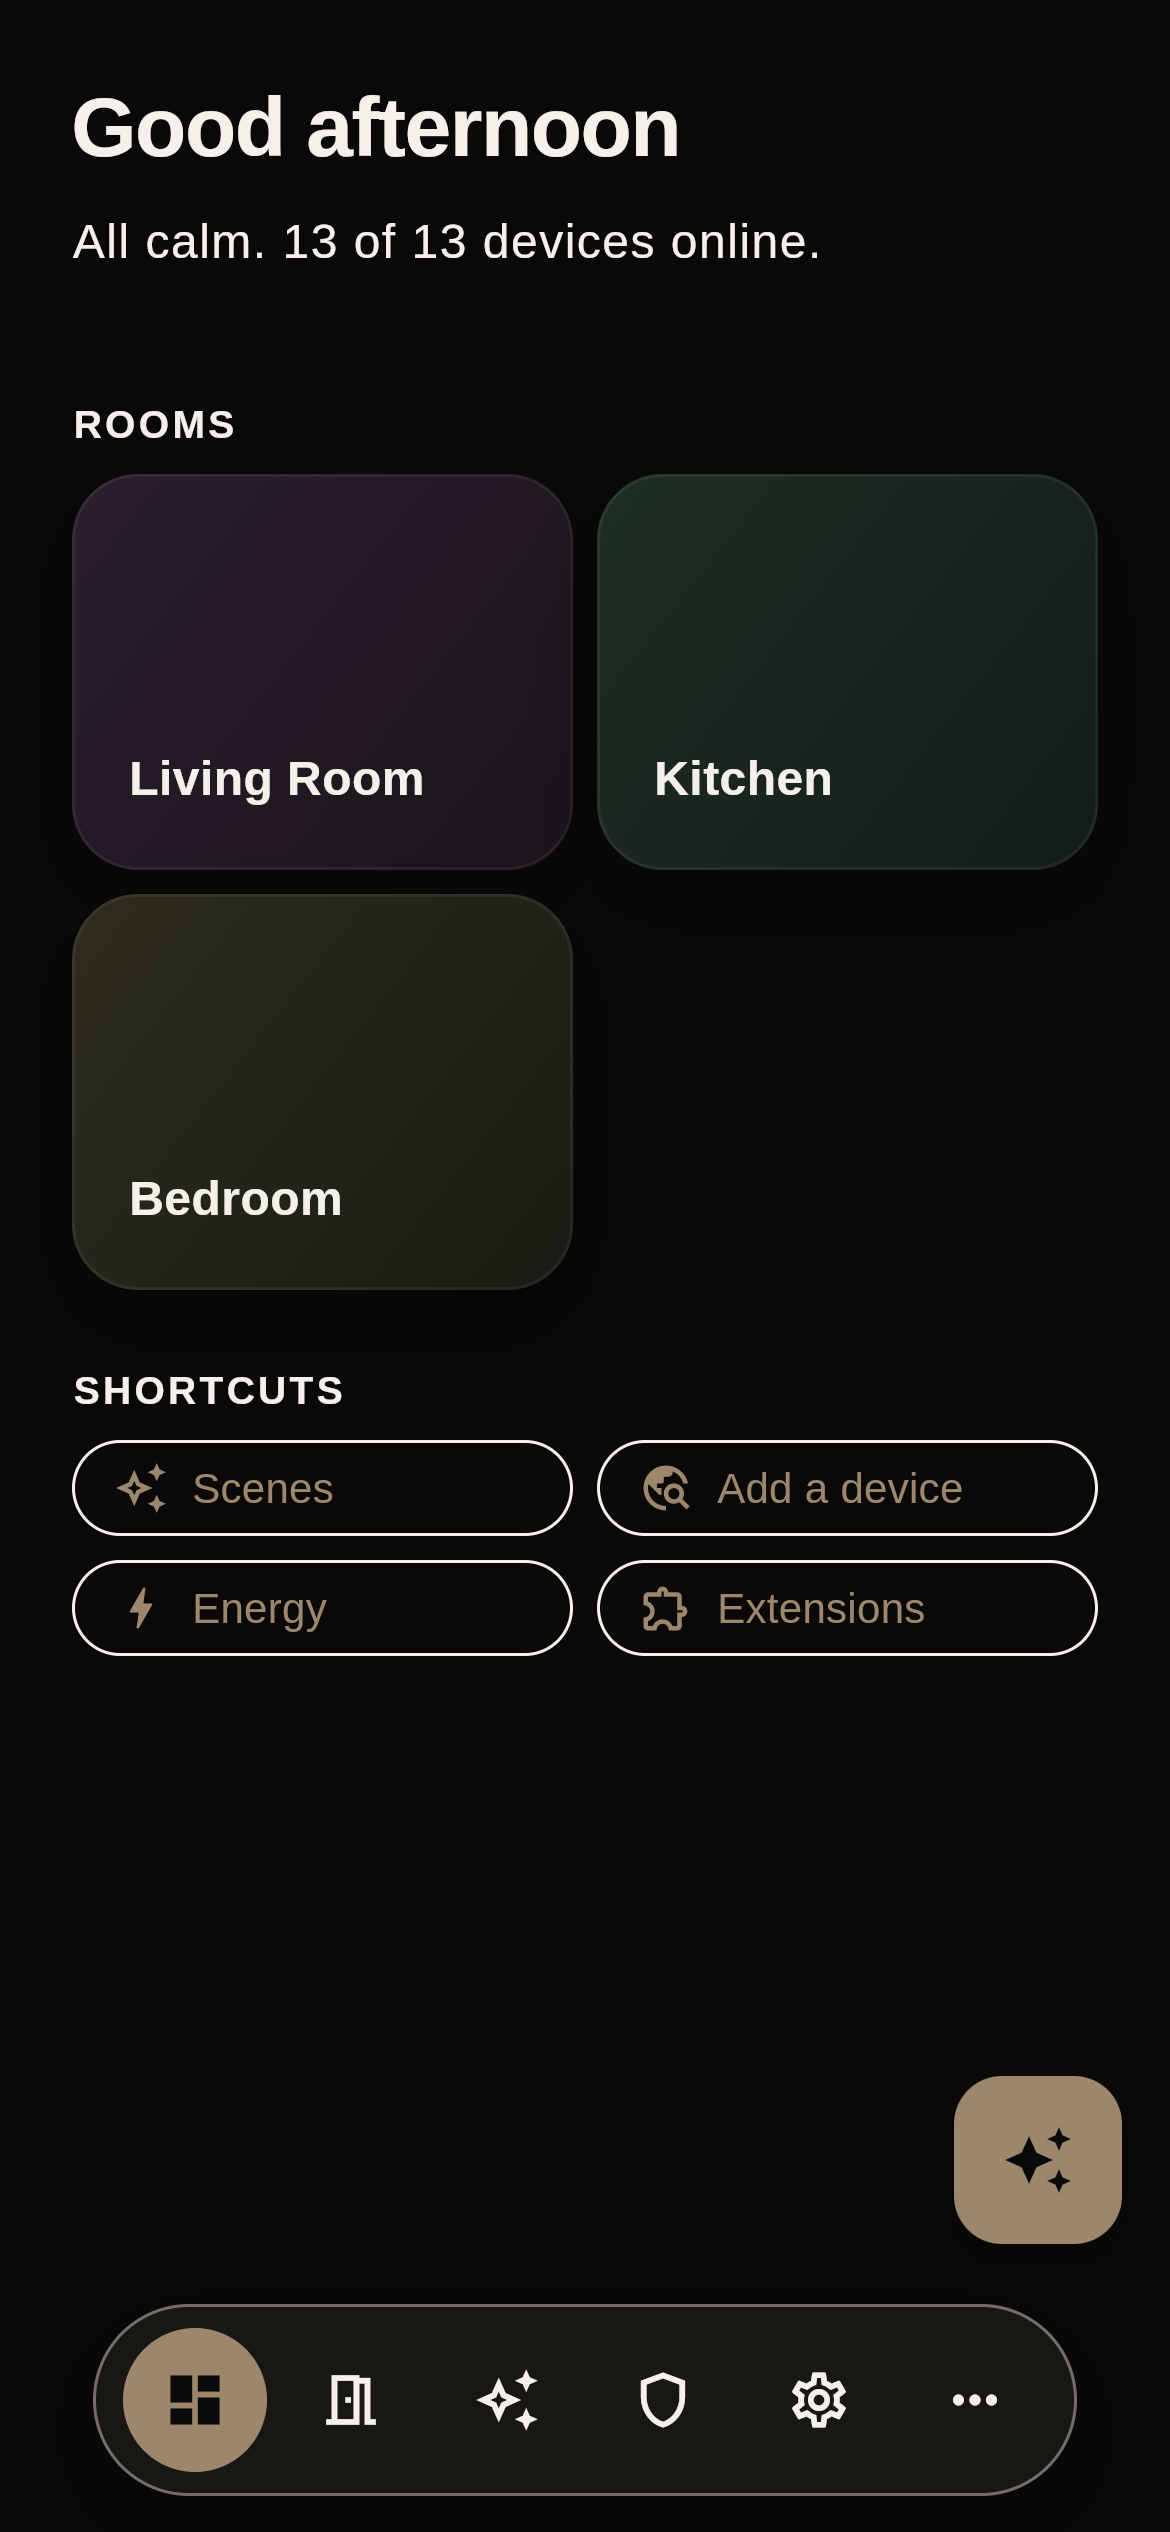
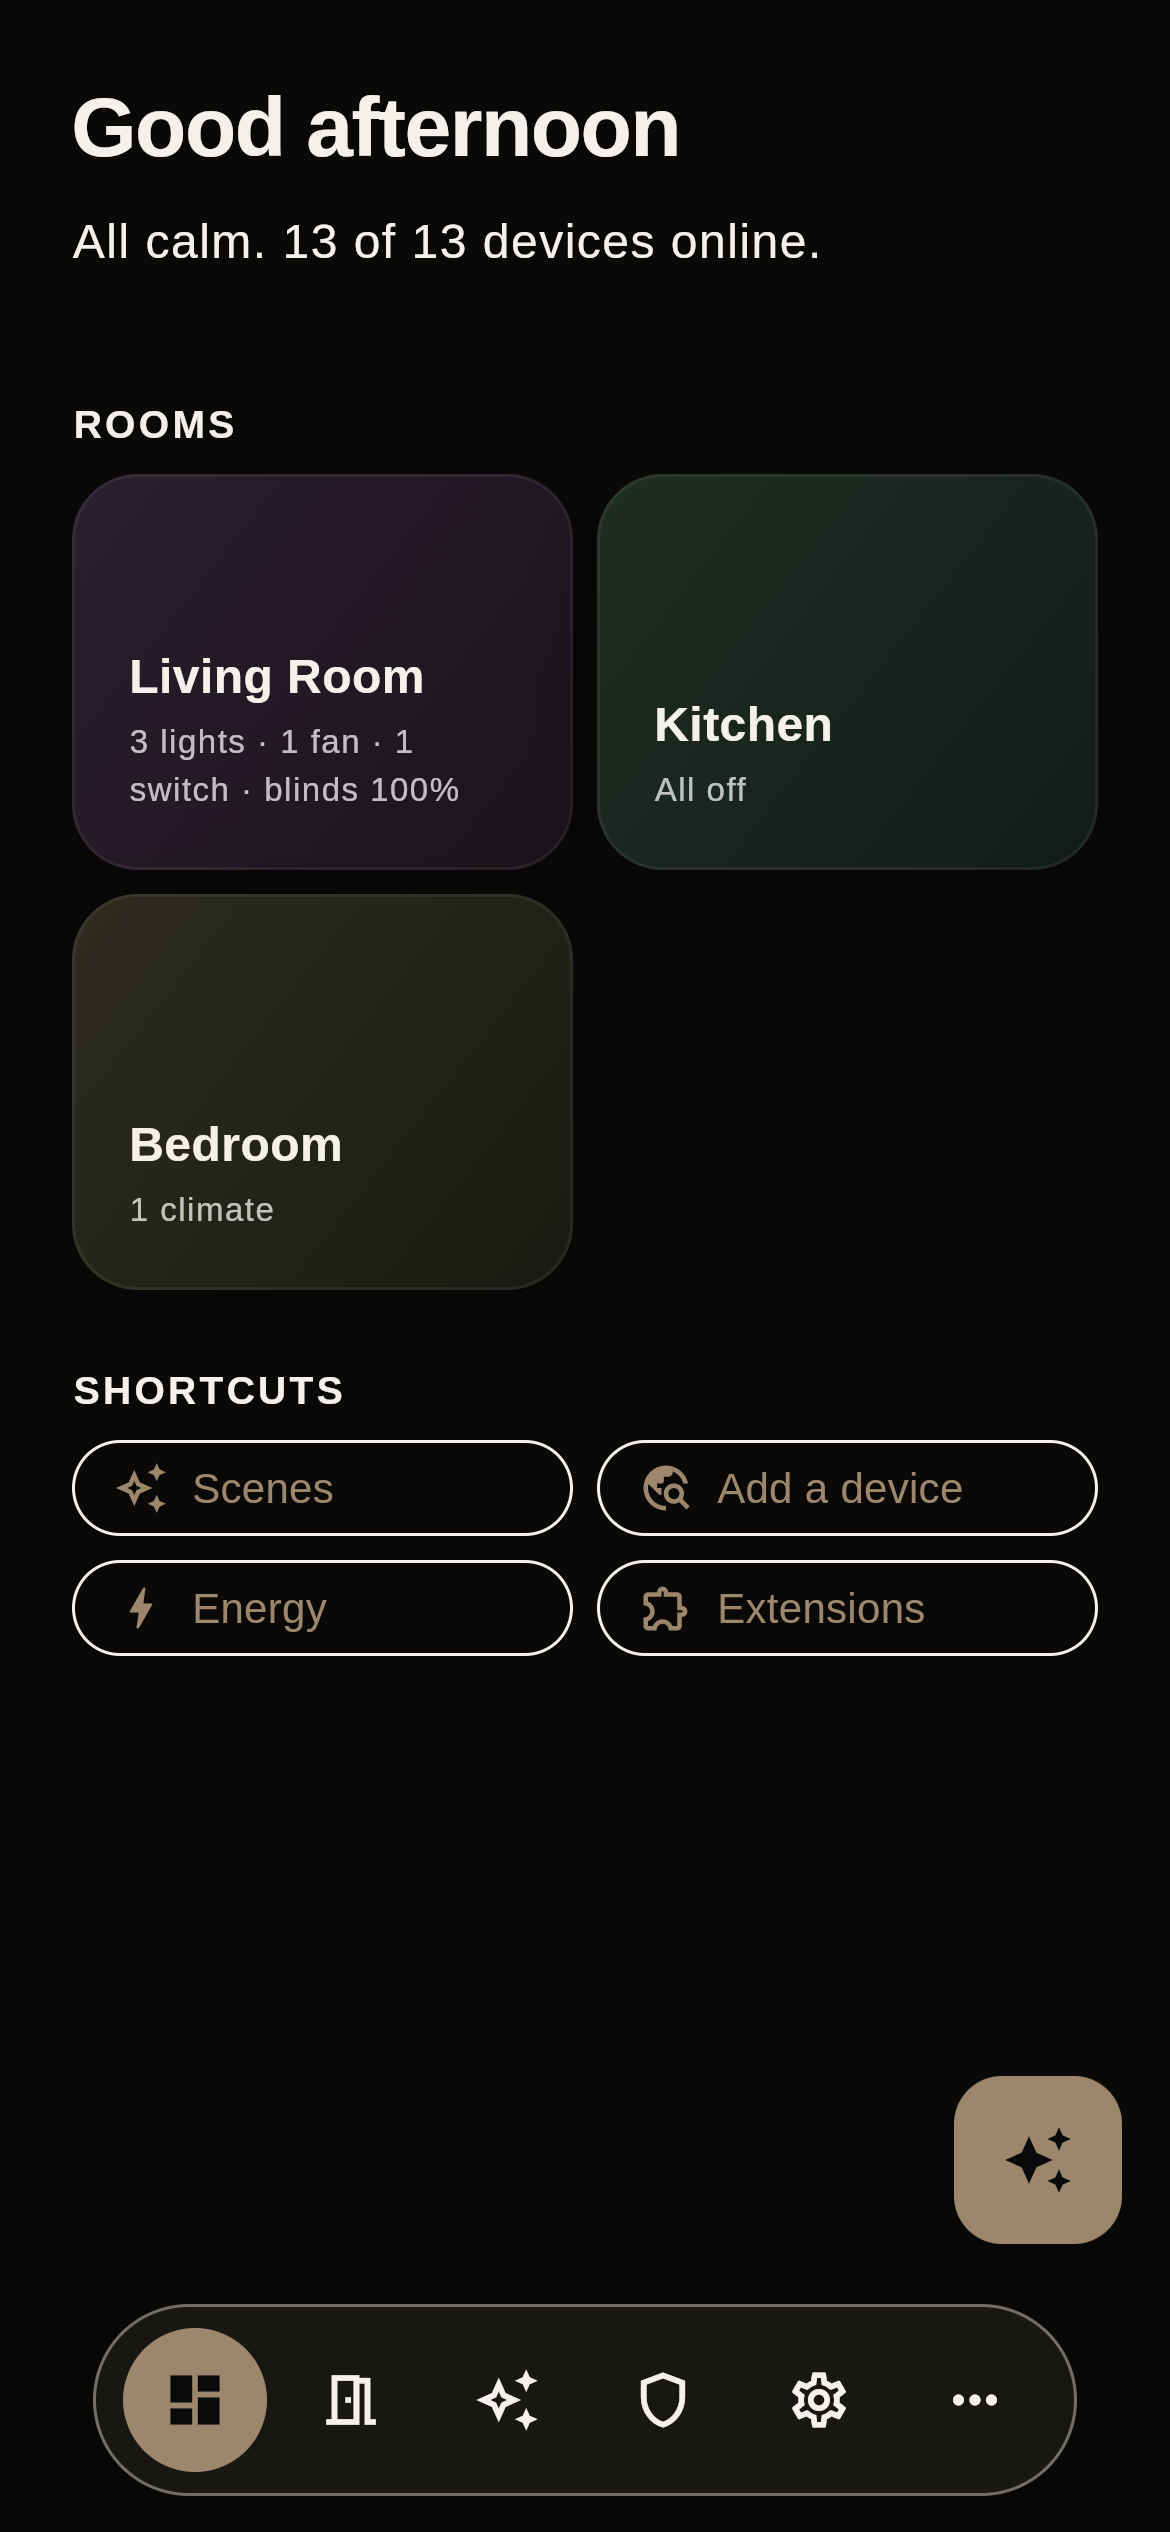
Room summaries: mobile parity (§ Room experience)
Mirrors the web room-card summaries on the Flutter Home tiles: each tile now shows what's live in the
room ("3 lights · 1 fan · 1 switch · blinds 100%" / "All off") beneath the room name, from a shared
Dart summarizeRoom() over allDevicesProvider. Same categories, same copy as web.

Refreshed the affected screenshots (Home web + mobile, Rooms list web).

Verified: flutter analyze clean; flutter test 4/4; visually confirmed on the mobile Home.

Claude-Session: https://claude.ai/code/session_01EBecuTkque4TJM3ndyHGTv

Changed region(s): [[0.0923, 0.2496, 0.3692, 0.3432], [0.0923, 0.4368, 0.2769, 0.4992], [0.5538, 0.2808, 0.7077, 0.312]]

diff --git a/apps/mobile/lib/screens/dashboard.dart b/apps/mobile/lib/screens/dashboard.dart
@@ -4,6 +4,7 @@ import 'package:flutter_riverpod/flutter_riverpod.dart';
 import 'package:supreme_sdk/supreme_sdk.dart';
 
 import '../providers.dart';
+import '../roomsummary.dart';
 import '../usage.dart';
 import '../weather.dart';
 import 'automations_screen.dart';
@@ -86,6 +87,7 @@ class DashboardScreen extends ConsumerWidget {
     final usage = ref.read(usageProvider.notifier);
     final allRooms = ref.watch(homeProvider).valueOrNull?.rooms ?? const <Room>[];
     final rooms = [...allRooms]..sort((a, b) => usage.count('room', b.id).compareTo(usage.count('room', a.id)));
+    final allDevices = ref.watch(allDevicesProvider).valueOrNull ?? const <Device>[];
 
     // Plain-language things that actually need a decision — nothing when all is well.
     final attention = <({String textLabel, bool warn, Widget target})>[];
@@ -162,6 +164,7 @@ class DashboardScreen extends ConsumerWidget {
                       width: w,
                       child: _RoomTile(
                         name: r.name,
+                        summary: summarizeRoom(allDevices.where((d) => d.roomId == r.id).toList()),
                         onTap: () { usage.record('room', r.id); _push(context, Scaffold(appBar: AppBar(title: Text(r.name)), body: RoomView(roomId: r.id, roomName: r.name, areaType: r.areaType, heroImageUrl: r.heroImageUrl))); },
                       ),
                     ),
@@ -365,8 +368,9 @@ LinearGradient _roomTint(String name) {
 
 /// Rooms are the hero: a softly-lit tile with an ambient shadow and a bottom-anchored name.
 class _RoomTile extends StatelessWidget {
-  const _RoomTile({required this.name, required this.onTap});
+  const _RoomTile({required this.name, required this.onTap, this.summary = ''});
   final String name;
+  final String summary;
   final VoidCallback onTap;
 
   @override
@@ -377,14 +381,23 @@ class _RoomTile extends StatelessWidget {
       child: Container(
         height: 132,
         padding: const EdgeInsets.all(18),
-        alignment: Alignment.bottomLeft,
         decoration: BoxDecoration(
           gradient: _roomTint(name),
           borderRadius: BorderRadius.circular(22),
           border: Border.all(color: Colors.white.withValues(alpha: 0.06)),
           boxShadow: [BoxShadow(color: Colors.black.withValues(alpha: 0.28), blurRadius: 24, offset: const Offset(0, 10))],
         ),
-        child: Text(name, style: Theme.of(context).textTheme.titleMedium?.copyWith(fontWeight: FontWeight.w600)),
+        child: Column(
+          mainAxisAlignment: MainAxisAlignment.end,
+          crossAxisAlignment: CrossAxisAlignment.start,
+          children: [
+            Text(name, style: Theme.of(context).textTheme.titleMedium?.copyWith(fontWeight: FontWeight.w600)),
+            const SizedBox(height: 2),
+            Text(summary.isEmpty ? 'All off' : summary,
+                maxLines: 2, overflow: TextOverflow.ellipsis,
+                style: Theme.of(context).textTheme.labelSmall?.copyWith(color: Colors.white.withValues(alpha: 0.72))),
+          ],
+        ),
       ),
     );
   }

diff --git a/apps/mobile/lib/roomsummary.dart b/apps/mobile/lib/roomsummary.dart
@@ -1,0 +1,61 @@
+import 'package:supreme_sdk/supreme_sdk.dart';
+
+/// A live, human summary of what's happening in a room — "3 lights · 1 fan · blinds 100%".
+/// Mirrors the web helper: counts every device that is ON by friendly category, and lists open
+/// covers with their position. Homeowner language only. Empty string when the room is at rest.
+String summarizeRoom(List<Device> devices) {
+  var lights = 0, climate = 0, media = 0, fans = 0, switches = 0;
+  final coversOpen = <int>[];
+
+  for (final d in devices) {
+    final caps = d.capabilities;
+    final st = d.state;
+    Map<String, dynamic>? s(String k) => st[k] as Map<String, dynamic>?;
+
+    if (caps.contains('position')) {
+      final p = ((s('position')?['position'] as num?) ?? 0).round();
+      if (p > 0) coversOpen.add(p);
+      continue;
+    }
+    if (caps.contains('brightness') || caps.contains('color')) {
+      if ((s('brightness')?['on'] ?? s('color')?['on'] ?? s('onoff')?['on']) == true) lights++;
+      continue;
+    }
+    if (caps.contains('temperature')) {
+      final m = s('temperature')?['mode'];
+      if (m != null && m != 'off') climate++;
+      continue;
+    }
+    if (caps.contains('media')) {
+      final pb = s('media')?['playback'];
+      if (pb == 'playing' || pb == 'paused') media++;
+      continue;
+    }
+    if (caps.contains('fan')) {
+      if (s('fan')?['on'] == true) fans++;
+      continue;
+    }
+    if (caps.contains('onoff')) {
+      if (s('onoff')?['on'] == true) switches++;
+      continue;
+    }
+  }
+
+  String plural(int n, String word) {
+    final p = word == 'switch' ? 'switches' : '${word}s';
+    return '$n ${n == 1 ? word : p}';
+  }
+
+  final parts = <String>[];
+  if (lights > 0) parts.add(plural(lights, 'light'));
+  if (climate > 0) parts.add('$climate climate');
+  if (media > 0) parts.add(plural(media, 'player'));
+  if (fans > 0) parts.add(plural(fans, 'fan'));
+  if (switches > 0) parts.add(plural(switches, 'switch'));
+  if (coversOpen.length == 1) {
+    parts.add('blinds ${coversOpen.first}%');
+  } else if (coversOpen.length > 1) {
+    parts.add('${coversOpen.length} blinds open');
+  }
+  return parts.join(' · ');
+}
